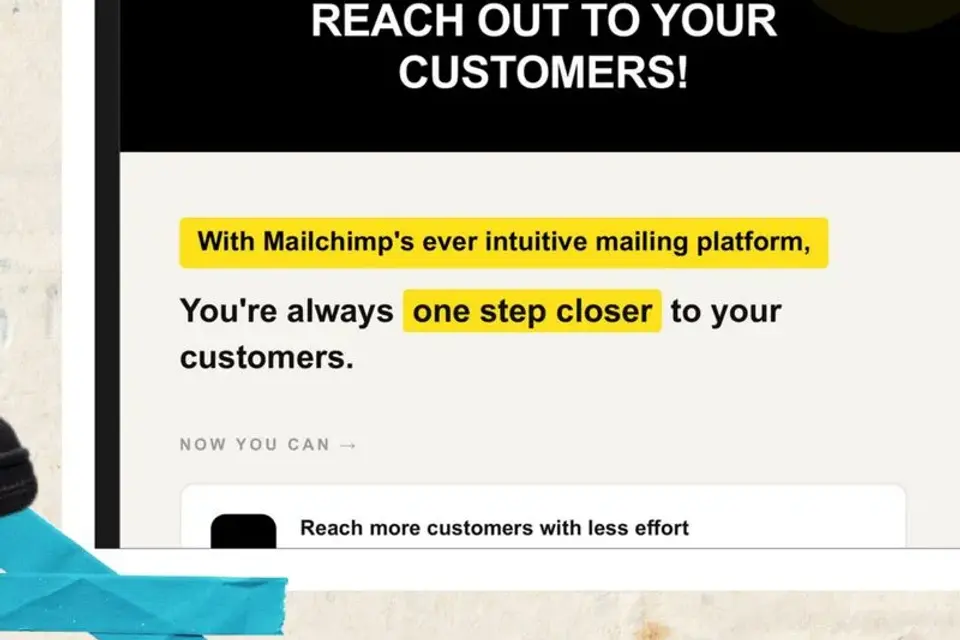
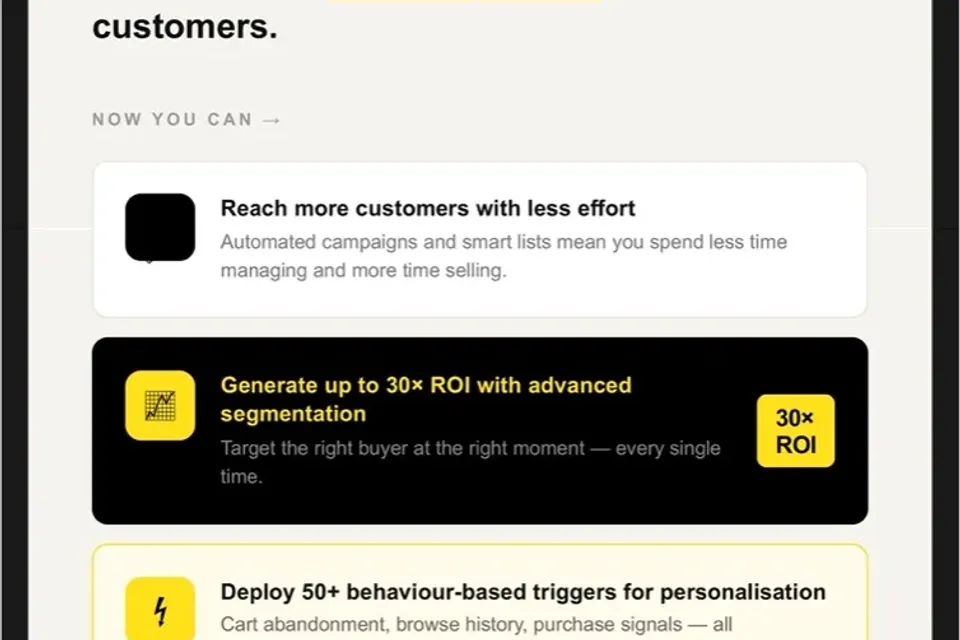
DROP 01: every lot opens the real mockup now
The six remaining lots were still showing the old low-resolution screenshots
pulled from the pitch deck. The real assets existed all along, cropped at
300dpi in the deck-rebuild repo — a separate scrapbook-style build of the
same portfolio — which is where they surfaced. Nothing here was regenerated
or upscaled; each image is cut from that source at its native resolution.

Three lots now show more than one image, because more than one image is what
the work is:

- Duolingo is a full coach wrap, so it gets all three placements — the
  exterior wrap that carries his headline, then the overhead panel, then the
  under-seat panel, in the order he wrote the copy.
- The Economist has two lines against one brief, so both billboards sit side
  by side and read as a choice. The flyover one leads: it answers the brief
  literally, read in three seconds at 60kmph.
- The Whole Truth is two different insert cards, not two crops of one.

The Mailchimp email arrived as two screenshots of one scroll. They are
trimmed of their white padding and stacked into a single continuous email,
shaving 2px off each inner edge so trim()'s pale edge pixel doesn't leave a
hairline across the seam. This is also the first time the actual email has
been on the site — the .htm file sent earlier held nothing but the Intuit
wordmark.

`mock` becomes `mocks`, an array, with a `layout` naming how the dialog sets
them: 'pair' puts two ideas in a two-column grid, everything else stacks.
[…]

diff --git a/drop-01/src/data/work.js b/drop-01/src/data/work.js
@@ -1,17 +1,26 @@
 import liquidDeath from '../assets/liquid-death.webp';
 import mailchimp from '../assets/mailchimp.webp';
-import duolingo from '../assets/duolingo.webp';
-import economist from '../assets/economist.webp';
+import duolingoWrap from '../assets/duolingo-wrap.webp';
+import duolingoOverhead from '../assets/duolingo-overhead.webp';
+import duolingoSeat from '../assets/duolingo-seat.webp';
+import economistFlyover from '../assets/economist-flyover.webp';
+import economistBridge from '../assets/economist-bridge.webp';
 import madAdWoman from '../assets/mad-ad-woman.webp';
 import diesel from '../assets/diesel.webp';
-import wholeTruth from '../assets/whole-truth.webp';
+import wholeTruthCard1 from '../assets/whole-truth-card-1.webp';
+import wholeTruthCard2 from '../assets/whole-truth-card-2.webp';
 import dove from '../assets/dove.webp';
 
 // Eight briefs from the Mad Ad Woman copywriting cohort. Nothing here was
 // commissioned by the client named; the manifest says so where it cannot be
-// missed. `cta` names what opening the lot shows. `line` and `copy` are his words, verbatim.
-// `line: null` means he has not written one — it renders as a FILL token.
-// `critique` is his to write and renders as a pending slot while empty.
+// missed. `cta` names what opening the lot shows. `line` and `copy` are his
+// words, verbatim — they carry the sr-only caption in the dialog, since the
+// words themselves live inside the mockups as pixels.
+//
+// `mocks` is every image of the piece, in the order he wrote the copy for it.
+// `layout` says how the dialog sets them: 'single' for one image, 'stack' for
+// placements that are too wide to sit beside each other, 'pair' for two ideas
+// meant to be compared at a glance.
 export const LOTS = [
   {
     lot: '01',
@@ -26,7 +35,10 @@ export const LOTS = [
       '“Click here to go back to our thirst-murdering products.”',
     ],
     lead: true,
-    mock: { src: liquidDeath, w: 800, h: 772, alt: 'Liquid Death 404 page mockup: a graveyard where two headstones spell 404' },
+    layout: 'single',
+    mocks: [
+      { src: liquidDeath, w: 1400, h: 876, alt: 'Liquid Death 404 page in a browser window: a moonlit graveyard where two headstones spell 404, a flaming skull half-buried at the left, and the middle headstone reading “Click here to go back to our thirst-murdering products”' },
+    ],
     critique: '',
   },
   {
@@ -40,7 +52,10 @@ export const LOTS = [
     copy: [
       'Are your business decisions left on the whimsy of the algorithms? Take control of your visibility, reach out to your customers! With Mailchimp’s ever-intuitive mailing platform, you’re always one step closer to your customers.',
     ],
-    mock: { src: mailchimp, w: 800, h: 1263, alt: 'Mailchimp cold email mockup' },
+    layout: 'single',
+    mocks: [
+      { src: mailchimp, w: 754, h: 2318, alt: 'The full Mailchimp cold email in an email-preview window: subject line “Put a foot into the doors of your customers’ inbox”, the Intuit Mailchimp wordmark, the opening question about algorithms, a black panel reading “Take control of your visibility, reach out to your customers!”, four feature cards, and a yellow “Sign up now” button under a 50%-off offer' },
+    ],
     critique: '',
   },
   {
@@ -48,7 +63,7 @@ export const LOTS = [
     slug: 'duolingo',
     client: 'Duolingo',
     format: 'metro-coach wrap',
-    cta: 'Read the wrap',
+    cta: 'See all three placements',
     brief: 'Write a full metro-coach wrap for Duolingo.',
     line: 'Jitni der scroll karne me waste kiya, utni der me French me ask out karna seekh jaate. Anyways, your loss.',
     copy: [
@@ -56,7 +71,12 @@ export const LOTS = [
       '“Aaj ka lesson complete nahi kiya? Aa jau kya mai apni pe???”',
     ],
     note: 'Hinglish, as written.',
-    mock: { src: duolingo, w: 900, h: 228, alt: 'Duolingo metro-coach wrap mockup' },
+    layout: 'stack',
+    mocks: [
+      { src: duolingoWrap, w: 1400, h: 781, alt: 'Duolingo metro coach at a platform, its full length wrapped in white: “Jitni der scroll karne me waste kiya, utni der me French me ask out karna seekh jaate” in green caps, with “Anyways, your loss” beneath it and a sleeping Duo owl beside the line “Learn your next language on Duolingo”' },
+      { src: duolingoOverhead, w: 1400, h: 534, alt: 'Overhead panels inside the coach, above the doors: “Duo ko sirf HOOT HOOT hi nahi, Slackers ke saath BRUTE hona bhi aata hai”, with a Duo owl holding a cricket bat' },
+      { src: duolingoSeat, w: 1400, h: 457, alt: 'Panels under the blue passenger seats: “Aaj ka lesson complete nahi kiya? AA JAU KYA MAI APNI PE???” with a scowling, arms-folded Duo owl' },
+    ],
     critique: '',
   },
   {
@@ -64,11 +84,17 @@ export const LOTS = [
     slug: 'the-economist',
     client: 'The Economist',
     format: 'billboard',
-    cta: 'See the billboard',
+    cta: 'See both billboards',
     brief: 'Write a hoarding for The Economist. One line, on a flyover, read in 3 seconds at 60kmph. No subhead, no explanation.',
     line: 'Make them mean it when they say ‘great speaking with you.’',
-    copy: [],
-    mock: { src: economist, w: 900, h: 307, alt: 'The Economist billboard mockup' },
+    copy: [
+      '“Nice talking to you → Pleasure doing business with you.”',
+    ],
+    layout: 'pair',
+    mocks: [
+      { src: economistFlyover, w: 900, h: 600, alt: 'The Economist billboard in signature red on a Mumbai flyover above heavy traffic: “Make them mean it when they say “great speaking with you”.”' },
+      { src: economistBridge, w: 900, h: 600, alt: 'A second Economist billboard under a railway bridge: “Nice talking to you” on the left, an arrow drawn through the Economist logo, and “Pleasure doing business with you” on the right' },
+    ],
     critique: '',
   },
   {
@@ -78,13 +104,17 @@ export const LOTS = [
     format: 'Instagram ad, long copy',
     cta: 'Read the ad',
     brief: 'Write an ad to sell the ‘Mad Ad Woman’ copy batch. Find insights only someone who’s been through it could know, as a single story with long copy.',
-    line: null,
+    line: 'Copywriting is a creative task, and creativity is subjective. Then how do you know whether your copy is good or bad?',
     copy: [
-      '“Copywriting is a creative task, and creativity is subjective. Then how do you know whether your copy is good or bad?”',
-      '— breaks down what makes copy objectively good, then:',
+      'Subjectively, writing is an art, it’s supposed to be appreciated in its uniqueness. But appreciation rarely brings improvement, and it seldom brings conversions.',
+      'Objectively, any copy is considered good when: it has a single clear idea which can be said in one sentence; it has a real, human truth behind it; its craft serves the idea behind it; the copy in itself adds to the idea rather than simply describing it; and finally, it makes you feel an intended emotion.',
+      'Only then do you consider any copy an objectively good copy, and that’s exactly what the students of our copy batch are building, a skill in understanding and creating exceptional copy.',
       '“DM to get more details and sign up for the next copy batch.”',
     ],
-    mock: { src: madAdWoman, w: 800, h: 1124, alt: 'Mad Ad Woman Instagram ad mockup' },
+    layout: 'single',
+    mocks: [
+      { src: madAdWoman, w: 825, h: 1100, alt: 'The Mad Ad Woman Instagram post open on a phone held in one hand: the headline asking how you know whether your copy is good or bad, two contrasting boxes on subjective versus objective judgement, a five-point list of what makes copy objectively good, and a dark button reading “DM to get more details and sign up for the next copy batch”' },
+    ],
     critique: '',
   },
   {
@@ -96,9 +126,14 @@ export const LOTS = [
     brief: 'Write a 45–60 second cinema ad for Diesel, playing right before a Friday-night blockbuster. The crowd just paid ₹600 for popcorn — they already made one gloriously dumb, joyful decision. Use it. Diesel celebrates the brave-stupid over the safe-smart.',
     line: 'Be Bold. Be Stupid.',
     copy: [
-      '5-panel storyboard — BMX ride through the city → denim & bike detail → skateboard jump → campus walk → rock concert finale.',
+      'An 18-panel storyboard: BMX ride, bike and denim detail, skate jump, campus walk, rock concert — his denim life, cut short by a job offer reading “Dress Code: Formals”.',
+      'Denim packed away, suit on, swallowed by a beige open-plan office, then walking home alone at night and slumped on the bed, hollowed out.',
+      'Jacket back on, grinning — he dribbles a football through the office and kicks it into the boss’s cabin with “I QUIT” scrawled across it, then rides off in denim again. End card: “BE BOLD. BE STUPID.” over Diesel’s own line, “For Successful Living.”',
     ],
-    mock: { src: diesel, w: 1200, h: 4977, alt: 'Diesel storyboard, 18 panels: a denim-loving free spirit trades his identity for a formal corporate job, finds it hollow, and reclaims his authentic self by resigning and riding off in denim again' },
+    layout: 'single',
+    mocks: [
+      { src: diesel, w: 1200, h: 4977, alt: 'Diesel storyboard, 18 panels: a denim-loving free spirit trades his identity for a formal corporate job, finds it hollow, and reclaims his authentic self by resigning and riding off in denim again' },
+    ],
     critique: '',
   },
   {
@@ -106,13 +141,18 @@ export const LOTS = [
     slug: 'the-whole-truth',
     client: 'The Whole Truth',
     format: 'insert card',
-    cta: 'Read the card',
+    cta: 'Read both cards',
     brief: 'Write the little insert card inside someone’s first-ever Whole Truth order.',
     line: 'The Whole Truth is that this product is not the sweetest out there. And it’s certainly not the cheapest.',
     copy: [
-      '“It takes conscious effort to prioritise one’s health — and we’re proud of you for doing that.”',
+      '“It takes conscious efforts to prioritise one’s health and we’re proud of you for doing that.”',
+      '“You already know why you bought this product. If you still need more convincing, check the ingredients on the packaging.”',
     ],
-    mock: { src: wholeTruth, w: 800, h: 1446, alt: 'The Whole Truth insert card mockup' },
+    layout: 'pair',
+    mocks: [
+      { src: wholeTruthCard1, w: 900, h: 720, alt: 'A hand holding a Whole Truth protein sachet with a cream insert card on top, handwritten: “The Whole Truth is that this product is not the sweetest out there. And it’s certainly not the cheapest. It takes conscious efforts to prioritise one’s health and we’re proud of you for doing that.”' },
+      { src: wholeTruthCard2, w: 900, h: 720, alt: 'The second insert card on the same sachet: “You already know why you bought this product. If you still need more convincing, check the ingredients on the packaging.” above The Whole Truth logo' },
+    ],
     critique: '',
   },
   {
@@ -125,9 +165,14 @@ export const LOTS = [
     line: 'This is what your skin is supposed to look like.',
     copy: [
       '(a mirror, reflecting nothing but skin.)',
-      '“...Dove is here to change that. Beauty isn’t a goal to achieve, it’s a feeling. Because this is the only way your skin is supposed to look like.”',
+      'Since many years, the standards of beautiful skin have been set by the cosmetic and beauty industry, carrying a fixed definition of beautiful skin. Flawless glass skin with no spots, pores, textures or pigmentation. This has led to body dissatisfaction and frustration in women across the globe. About 60 percent of women around the world feel self conscious about their skin.',
+      'Dove is here to change that. We believe that beauty isn’t a goal to achieve, it is a feeling. It lies in being true to oneself and accepting one’s own skin. Each stretch mark, freckle, mole and texture of your skin makes you unique and beautiful in your own way. So experience beauty in your real skin and let Dove take care of it for you.',
+      'Because this is the only way your skin is supposed to look like.',
     ],
-    mock: { src: dove, w: 800, h: 1088, alt: 'Dove long-copy magazine ad mockup' },
+    layout: 'single',
+    mocks: [
+      { src: dove, w: 848, h: 1200, alt: 'Dove long-copy magazine ad: the headline “This is what your skin is supposed to look like” above an empty wall mirror, then body copy about industry beauty standards and accepting real skin, closing on “Because this is the only way your skin is supposed to look like” and the Dove logo' },
+    ],
     critique: '',
   },
 ];

diff --git a/drop-01/src/components/LotDialog.jsx b/drop-01/src/components/LotDialog.jsx
@@ -33,13 +33,17 @@ export default function LotDialog({ lots, active, onRequestClose, onNavigate }) 
   const prev = lots[(i - 1 + lots.length) % lots.length];
   const next = lots[(i + 1) % lots.length];
 
+  // The UA stylesheet pins a modal dialog at both top:0 and bottom:0, so
+  // h-auto stretches to the viewport and a short lot sits above a slab of dead
+  // paper. Releasing the bottom edge lets the panel hug its content; top-1/2
+  // with the translate keeps it centred the way m-auto used to.
   return (
     <dialog
       ref={ref}
       onClose={onClose}
       onCancel={(e) => { e.preventDefault(); onClose(); }}
       aria-labelledby="lot-heading"
-      className="m-0 md:m-auto w-full max-w-none md:max-w-[1200px] h-full md:h-auto md:max-h-[92vh] bg-paper text-ink border-0 md:border border-ink p-0 overflow-auto"
+      className="m-0 md:mx-auto md:my-0 md:top-1/2 md:bottom-auto md:-translate-y-1/2 w-full max-w-none md:max-w-[1200px] h-full md:h-auto md:max-h-[92vh] bg-paper text-ink border-0 md:border border-ink p-0 overflow-auto"
     >
       <div className="sticky top-0 bg-paper border-b border-ink flex items-center justify-between gap-4 px-4 md:px-6 h-12">
         <p id="lot-heading" className="label flex gap-4">
@@ -54,14 +58,20 @@ export default function LotDialog({ lots, active, onRequestClose, onNavigate }) 
       </div>
 
       <div className="p-4 md:p-6">
-        <figure>
-          <div className="border border-ink shadow-hard-8 bg-paper flex items-center justify-center">
-            <img src={active.mock.src} width={active.mock.w} height={active.mock.h} alt={active.mock.alt} loading="lazy" className="block w-full h-auto" />
-          </div>
-          {/* The mockup is the work, so it carries the design on its own. But the
-              words inside it are his, and words that exist only as pixels are
-              unreadable to a screen reader and unfindable by search. The copy
-              rides along here, announced and searchable, shown to no one. */}
+        {/* 'pair' sets two ideas beside each other so they read as a choice;
+            everything else stacks. Each frame is capped at its image's own
+            pixel width so nothing is ever upscaled past its source. */}
+        <figure className={active.layout === 'pair' ? 'grid gap-4 md:gap-6 md:grid-cols-2 md:items-start' : 'flex flex-col gap-4 md:gap-6'}>
+          {active.mocks.map((m, k) => (
+            <div key={k} className="border border-ink shadow-hard-8 bg-paper mx-auto w-full" style={{ maxWidth: m.w }}>
+              <img src={m.src} width={m.w} height={m.h} alt={m.alt} loading="lazy" className="block w-full h-auto" />
+            </div>
+          ))}
+          {/* The mockups are the work, so they carry the design on their own.
+              But the words inside them are his, and words that exist only as
+              pixels are unreadable to a screen reader and unfindable by
+              search. The copy rides along here, announced and searchable,
+              shown to no one. */}
           <figcaption className="sr-only">
             {active.line && <span>{active.line} </span>}
             {active.copy.map((c, k) => (

diff --git a/drop-01/src/data/identity.js b/drop-01/src/data/identity.js
@@ -26,7 +26,6 @@ export const PERSON = {
 // Unsupplied facts, rendered as visible tokens. Keys are the <<FILL:...>> ids
 // from the brief; the build prints every one still outstanding at check time.
 export const FILLS = {
-  MADADWOMAN_LINE: null,
   FOLEY_RUNTIME: null,
   VOCAL_RUNTIME: null,
 };
